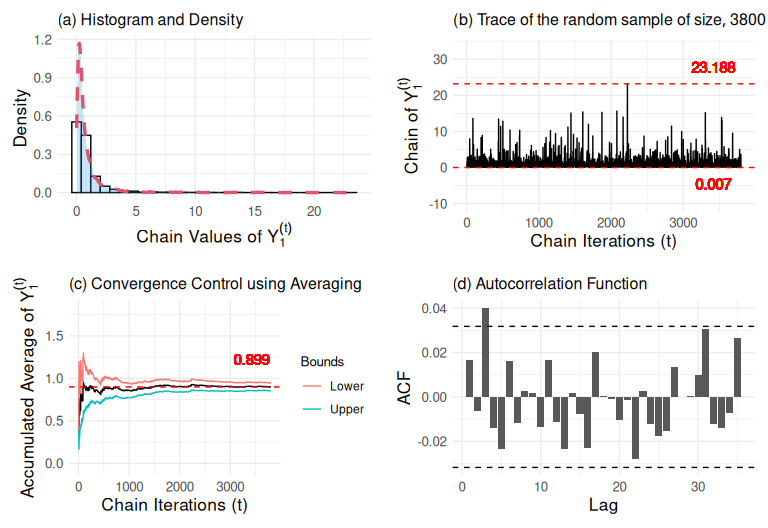
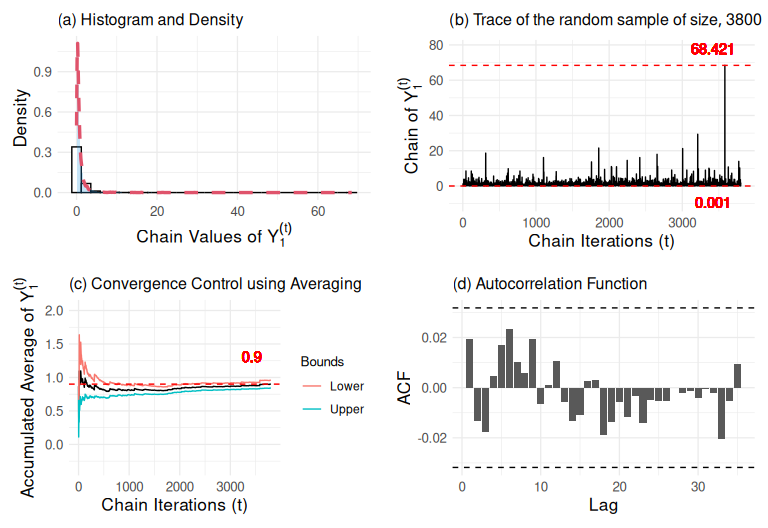
update

diff --git a/randomsamples.md b/randomsamples.md
@@ -3,45 +3,45 @@ RandomSample
 
 # Introduction
 
-This document presents a simulation method for generating random samples
-from a new bivariate probability distribution with parameters
-$\phi=(a,b,c,d)$, and a probability density function.
+This document presents a simulation framework for generating random
+samples from a newly proposed bivariate probability distribution,
+characterized by the parameter vector $\phi = (a, b, c, d)$ and the
+following joint probability density function:
 
 $$
 f_{\phi}(y_1,y_2)= \dfrac{1}{beta(a,b)beta(c,d)}\ y_1^{a-1}y_2^{b-1}(y_1+y_2)^{d-(a+b)} (y_1+y_2+1)^{-c-d},\hspace{1cm}y_1,y_2\in\mathbb{R}^+
-$$
-
-and a joint moment of order $l = l_1 + l_2$ determined by
-
-$$
+$$ where $\mathrm{beta}(\cdot, \cdot)$ denotes the Beta function.
+Additionally, the joint moment of order $l = l_1 + l_2$ for this
+distribution is given by: $$
 E_{\phi}[Y_1^{l_1} Y_2^{l_2}] \propto beta(c-l,l+d)\times beta(l_1+a,l_2+b)
-$$
+$$ provided that $c > 2$, ensuring the existence of the moment.
 
-provided that $c > 2$.
-
-The presented method uses the Metropolis-Hastings method with a random
-walk to generate samples from the conditional distribution $X_1$ given
-$X_2$. Subsequently, Gibbs Sampling is used to generate samples from the
-random vector $(X_1, X_2)$, and finally, samples for the vector
-$(Y_1, Y_2)$ are obtained through the transformation.
-
-$$
+The simulation approach integrates two key Markov Chain Monte Carlo
+(MCMC) techniques. First, the **Metropolis-Hastings algorithm with an
+adaptive random walk** is employed to generate samples from the full
+conditional distribution of $X_1$ given $X_2$. Second, **Gibbs
+Sampling** is applied to produce samples from the joint distribution of
+the vector $(X_1, X_2)$. Finally, these samples are transformed into
+realizations of the target random vector $(Y_1, Y_2)$ through the
+following bijective transformation: $$
 (Y_1,Y_2)=\left(X_1\left(\dfrac{X_1(1-X_1)}{X_2}-1\right),(1-X_1)\left(\dfrac{X_1(1-X_1)}{X_2}-1\right)\right).
-$$
+$$ This method ensures flexible and efficient sampling from the proposed
+bivariate distribution, enabling further analysis and characterization
+of its properties.
 
 # Generating Samples of $X_1$ Given $X_2$
 
 ## Conditional Distribution of $X_1$ Given $X_2$
 
-The conditional density function of $X_1$ given $X_2 = v$ is
-
-$$
+The non-normalized conditional density function of $X_1$ given $X_2 = v$
+is expressed as: $$
 f_{\phi}(x_1|x_2)\propto x_1^{a-c-d}(x_1(1-x_1)-x_2)^{d-1}(1-x_1)^{b-c-d}
-$$
-
-By setting the hyperparameter values
-$\phi = (a1, b1, c1, d1) = (2.2, 2.2, 2.2, 2.2)$, the graph is
-constructed for three values of $X_2$.
+$$ where $\phi = (a, b, c, d)$ is the parameter vector of the
+distribution. To illustrate the behavior of this conditional density, we
+set the hyperparameters to
+$\phi = (a_1, b_1, c_1, d_1) = (2.2, 2.2, 2.2, 2.2)$ and plot the
+corresponding density curves for three different values of the
+conditioning variable $X_2$.
 
 ``` r
 a1=2.2; b1=2.2; c1=2.2; d1=2.2
@@ -54,52 +54,61 @@ It is observed that the conditional density is symmetric for the
 configuration of $\phi$ values and that it decreases for $X_2$ values
 close to 0.25.
 
-## Metropolis-Hastings Algorithm with Random Walk
+## Metropolis-Hastings Algorithm with Adaptive Random Walk
 
-Using the Metropolis-Hastings Algorithm with Random Walk (MHARW), a
-chain of size $N=10^5$ is generated with a precision of 3 in the
-proposal distribution, a thinning of 25, and a burn-in of 5000. The
+Using the Metropolis-Hastings Algorithm with adaptive random walk
+(MHARW), a chain of size $N=10^5$ is generated with a precision of 3 in
+the proposal distribution, a thinning of 25, and a burn-in of 5000. The
 graph of the resulting density shows a similar behavior to the one
 obtained previously.
 
 ``` r
 test=Gen_FC_X1_X2(N=10^5, prop_prec=3, a=a1, b=b1, c=c1, d=d1, v=0.05, option = "all", thin=25, burnin=5000,target_acceptance = 0.4)
-plot(density(test$thinned_chain),main="Conditional Distribution Density of X_1 Given X_2",xlab=expression(x[1]))
+plot(density(test$thinned_chain),main="Non-normalized Conditional Distribution Density of X_1 Given X_2",xlab=expression("Values of " ~ X[1]~"given"~X[2]==0.05))
 ```
 
 ![](randomsamples_files/figure-gfm/unnamed-chunk-2-1.png)<!-- -->
 
 ## Convergence Monitoring of the Simulation Method
 
-To monitor the convergence of the chain from the designed algorithm, the
-acceptance rate and the effective sample size are tracked for different
-values of the precision (used in the proposal distribution) versus
-values of $X_2 = v$.
+To assess the convergence of the Markov chain generated by the proposed
+algorithm, key diagnostics are monitored: the **acceptance rate**,
+**effective sample size (ESS)**, and the **R-hat diagnostic**
+(Gelman-Rubin statistic). These metrics are evaluated across different
+values of the **precision parameter** (used in the proposal
+distribution) and the **conditioning variable** $X_2 = v$
 
 ``` r
-Mon_Measure(N=10^4, prop_prec_values=seq(1, 20, by = 1), a=a1, b=b1, c=c1, d=d1, v_values=seq(0.01, 0.24, length.out = 10),thin = 5,burnin = 1000,target_acceptance = 0.4)
+df_ess_ar <- results_Mon_Measure(N=10^4, prop_prec_values=seq(1, 20, by = 1), a=a1, b=b1, c=c1, d=d1, v_values=seq(0.01, 0.24, length.out = 10),thin = 5,burnin = 1000,target_acceptance = 0.4)
+ df_rhat <- results_Mon_R_Hat(N=10^4, prop_prec_values=seq(1, 20, by = 1), a=a1, b=b1, c=c1, d=d1, v_values=seq(0.01, 0.24, length.out = 10),thin = 5,burnin = 1000,target_acceptance = 0.4)
 ```
 
-![](randomsamples_files/figure-gfm/unnamed-chunk-3-1.png)<!-- -->
+The desired convergence behavior is as follows: - The **acceptance
+rate** (Figure 3b) should ideally remain between **0.3 and 0.7**. - The
+**effective sample size** (Figure 3a) should be close to the post
+burn-in sample size. For the configuration used in this study, the ESS
+is expected to exceed **465** and approach $(10^4 - 1000) / 5 = 1800$,
+given the thinning interval of 5 and burn-in of 1000 from a total of
+10,000 iterations.
 
-The ideal behavior sought is for the acceptance rate to remain between
-0.3 and 0.7, while the effective sample size stays close to the
-generated sample size. For the configuration of the previous graphs, the
-effective sample size should be above 465 and close to
-$(10^4 - 1000) / 5 = 1800$. The presented graphs allow for determining
-the value of the precision based on the value of $X_2$.
+Additionally, the **R-hat diagnostic** (Figure 3c) is computed to
+evaluate convergence across multiple chains. This statistic compares the
+variance between chains to the variance within chains. An **R-hat value
+close to 1** indicates that the chains have converged to the same target
+distribution, suggesting that the generated samples are representative
+of the underlying distribution. Conversely, **R-hat values significantly
+greater than 1** suggest a lack of convergence, and it is recommended to
+extend the simulation to improve convergence and ensure more reliable
+estimates.
 
-The following graph shows the behavior of the R-Hat indicator
-(Gelman-Rubin), which is used to compare the variability between several
-chains with the variability within each chain. An R-Hat value close to 1
-indicates that the chains have converged to the same distribution,
-suggesting that the generated samples are representative of the
-distribution. If the R-Hat value is significantly greater than 1, it is
-recommended to continue the simulation to ensure better convergence and
-obtain more accurate estimates.
+The panel of convergence plots (Figures 3a–3c) provides a comprehensive
+view for selecting appropriate values of the **precision parameter**
+based on the **conditioning variable** $X_2 = v$, ensuring both the
+efficiency and stability of the sampling process.
 
 ``` r
-Mon_R_Hat(N=10^4, prop_prec_values=seq(1, 20, by = 1), a=a1, b=b1, c=c1, d=d1, v_values=seq(0.01, 0.24, length.out = 10),thin = 5,burnin = 1000,target_acceptance = 0.4)
+# Example usage:
+Generate_Figure3_Panels(df_ess_ar, df_rhat, prop_prec_values=seq(1, 20, by = 1))
 ```
 
 ![](randomsamples_files/figure-gfm/unnamed-chunk-4-1.png)<!-- -->
@@ -128,11 +137,24 @@ sample size, chain length, and the adjusted precision value. The
 adjustment period corresponds to the burn-in segment of the chain.
 
 ``` r
-data.frame("Acceptance Rate"=ExampleFC_X1_X2$acc_rate,"Acceptance Rate Post Burnin"=ExampleFC_X1_X2$acc_rate_pos_burnin, "ESS"=effectiveSize(ExampleFC_X1_X2$thinned_chain),"Length"=length(ExampleFC_X1_X2$thinned_chain), "Precision"=ExampleFC_X1_X2$precision)
+library(knitr)
+library(kableExtra)
+
+df <- data.frame(
+  "Acceptance Rate" = ExampleFC_X1_X2$acc_rate,
+  "Acceptance Rate Post Burn-in" = ExampleFC_X1_X2$acc_rate_pos_burnin,
+  "ESS" = effectiveSize(ExampleFC_X1_X2$thinned_chain),
+  "Length" = length(ExampleFC_X1_X2$thinned_chain),
+  "Precision" = ExampleFC_X1_X2$precision,
+  row.names = "Chain Measurements"  # Cambia el nombre de la fila
+)
+df 
 ```
 
-    ##      Acceptance.Rate Acceptance.Rate.Post.Burnin      ESS Length Precision
-    ## var1       0.8551686                   0.8611985 1103.187   3800   34.4022
+    ##                    Acceptance.Rate Acceptance.Rate.Post.Burn.in      ESS Length
+    ## Chain Measurements       0.8522785                    0.8588827 1066.608   3800
+    ##                    Precision
+    ## Chain Measurements    32.764
 
 ## Convergence Monitoring with Fixed Seeds
 
@@ -157,12 +179,21 @@ ExampleFC_X1_X2_seedgiven_cum=as.data.frame(ExampleFC_X1_X2_seedgiven_cum)
 # Matrix organization for plotting.
 ExampleFC_X1_X2_seedgiven_cum=gather(ExampleFC_X1_X2_seedgiven_cum,key="Seed",value="FCmu")
 ExampleFC_X1_X2_seedgiven_cum$Sim=rep(1:N,9)
+# Function to apply a consistent theme
+  custom_theme <- theme_minimal(base_size = 10) +
+    theme(
+      axis.title = element_text(size = 12),
+      axis.text = element_text(size = 9),
+      legend.title = element_text(size = 10),
+      legend.text = element_text(size = 9),
+      plot.margin = margin(10, 10, 10, 10)
+    )
 # Graphic
-Piece1_Grap_FC=ggplot(ExampleFC_X1_X2_seedgiven_cum,aes(x=Sim ,y=FCmu,group= Seed, color=Seed))+geom_line()+ylab(expression(hat(X)[1]^(t)))+xlab("t")+xlim(0,50)
+Piece1_Grap_FC=ggplot(ExampleFC_X1_X2_seedgiven_cum,aes(x=Sim ,y=FCmu,group= Seed, color=Seed))+geom_line()+ylab(expression("Accumulated Average " ~ hat(X)[1]^(t)))+xlab("Chain Iterations (t)")+xlim(0,50)+custom_theme
 
-Piece2_Grap_FC=ggplot(ExampleFC_X1_X2_seedgiven_cum,aes(x=Sim ,y=FCmu,group= Seed, color=Seed))+geom_line()+ylab(expression(hat(X)[1]^(t)))+xlab("t")+xlim(0,250)
+Piece2_Grap_FC=ggplot(ExampleFC_X1_X2_seedgiven_cum,aes(x=Sim ,y=FCmu,group= Seed, color=Seed))+geom_line()+ylab(expression("Accumulated Average " ~ hat(X)[1]^(t)))+xlab("Chain Iterations (t)")+xlim(0,250)+custom_theme
 
-Full_Grap_FC=ggplot(ExampleFC_X1_X2_seedgiven_cum,aes(x=Sim ,y=FCmu,group= Seed, color=Seed))+geom_line()+ylab(expression(hat(X)[1]^(t)))+xlab("t")
+Full_Grap_FC=ggplot(ExampleFC_X1_X2_seedgiven_cum,aes(x=Sim ,y=FCmu,group= Seed, color=Seed))+geom_line()+ylab(expression("Accumulated Average " ~ hat(X)[1]^(t)))+xlab("Chain Iterations (t)")+custom_theme
 
 grid.arrange(arrangeGrob(Piece1_Grap_FC, Piece2_Grap_FC, Full_Grap_FC,ncol=2, nrow=2, widths=c(2, 2), heights=c(2,2),layout_matrix=rbind(c(1,2),c(3,3))),bottom="Convergence control using averaging")
 ```
@@ -174,7 +205,7 @@ round(apply(ExampleFC_X1_X2_seedgiven[1:3800,], 2, mean),3)
 ```
 
     ##   0.1   0.2   0.3   0.4   0.5   0.6   0.7   0.8   0.9 
-    ## 0.494 0.491 0.488 0.506 0.490 0.499 0.499 0.499 0.501
+    ## 0.492 0.490 0.512 0.494 0.508 0.506 0.502 0.509 0.497
 
 # Gibbs Sampling
 
@@ -220,7 +251,7 @@ dta=expand.grid(X1 = mu1, X2 = s1) %>%
 ggplot()+geom_contour(aes(dta$X1, dta$X2, z = (dta$Z)),bins = 50) + 
   geom_point(aes(x=Example_Joint_Dist$X1[seq((burnin+1), N, by=thin)], y=Example_Joint_Dist$X2[seq((burnin+1), N, by=thin)]), colour="red",size=0.2) + 
   xlab(expression(X[1])) + ylab(expression(X[2])) + 
-  labs(title = "Contour Plots and Scatter Plot of a Random Sample")
+  labs(title = "Contour Plots and Scatter Plot of a Random Sample")+custom_theme
 ```
 
 ![](randomsamples_files/figure-gfm/unnamed-chunk-11-1.png)<!-- -->
@@ -271,7 +302,7 @@ ggplot()+geom_contour(aes(dta$X1, dta$X2, z = dta$Z),bins = 50)+
   geom_point(aes(x=alpha,y=beta),colour="red",size=0.3)+xlab(expression(Y[1])) + 
   ylab(expression(Y[2])) + 
   labs(title = "Contour Plots and Scatter Plot of a Random Sample")+xlim(c(0,5)) + 
-  ylim(c(0,2))
+  ylim(c(0,2))+custom_theme
 ```
 
 ![](randomsamples_files/figure-gfm/unnamed-chunk-14-1.png)<!-- -->
@@ -295,7 +326,7 @@ results_measure_diag$Numerical
 ```
 
     ##   Mean_Y1 Var_Y1 ESS_Y1 Mean_Y2 Var_Y2 ESS_Y2    Cov Length
-    ## 1  0.9416 2.7457   3800  0.9597 2.9071   3800 2.2778   3800
+    ## 1  0.9004 3.3746   3800  0.9202  4.488   3800 3.1678   3800
 
 The analytical results were:
 
@@ -314,7 +345,7 @@ results_measure_diag$Differences
 ```
 
     ##   Mean_Y1 Var_Y1 ESS_Y1 Mean_Y2 Var_Y2 ESS_Y2    Cov Length
-    ## 1 -0.0249 5.1054      0  -0.043  4.944      0 2.8572      0
+    ## 1  0.0163 4.4765      0 -0.0035 3.3631      0 1.9672      0
 
 # Comparison Using a Different Parameter Configuration
 
@@ -331,8 +362,8 @@ The numerical results were:
 results_measure_diag1$Numerical
 ```
 
-    ##   Mean_Y1 Var_Y1 ESS_Y1 Mean_Y2 Var_Y2 ESS_Y2    Cov Length
-    ## 1  1.0552  1.303   3800  1.8382 3.3579   3800 1.4705   3800
+    ##   Mean_Y1 Var_Y1   ESS_Y1 Mean_Y2 Var_Y2 ESS_Y2   Cov Length
+    ## 1  1.0399 1.4451 3792.276  1.8655 3.5916   3800 1.746   3800
 
 The analytical results were:
 
@@ -350,5 +381,5 @@ is as follows:
 results_measure_diag1$Differences
 ```
 
-    ##   Mean_Y1 Var_Y1 ESS_Y1 Mean_Y2 Var_Y2 ESS_Y2    Cov Length
-    ## 1 -0.0552  0.497      0  0.1618 2.4421      0 0.7295      0
+    ##   Mean_Y1 Var_Y1 ESS_Y1 Mean_Y2 Var_Y2 ESS_Y2   Cov Length
+    ## 1 -0.0399 0.3549 7.7242  0.1345 2.2084      0 0.454      0
